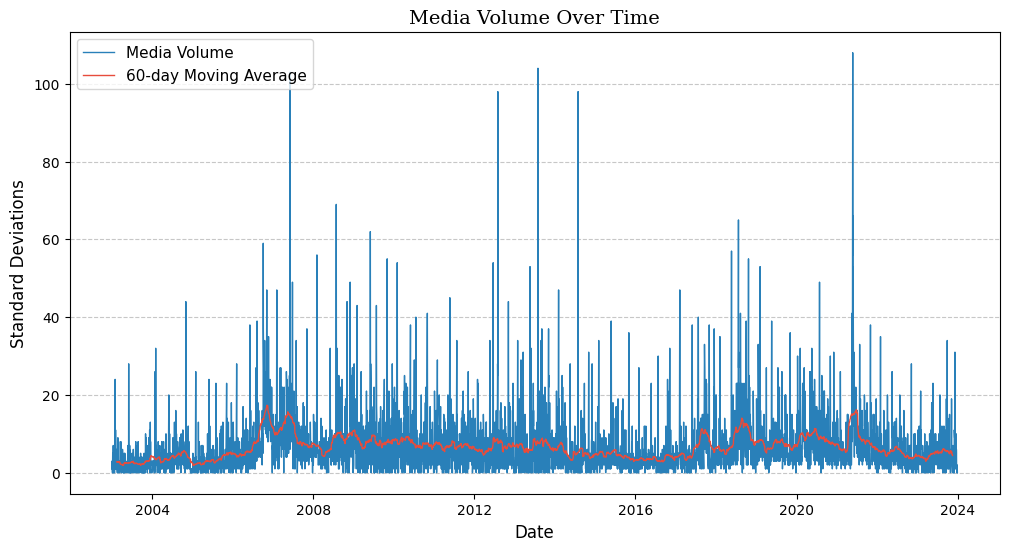
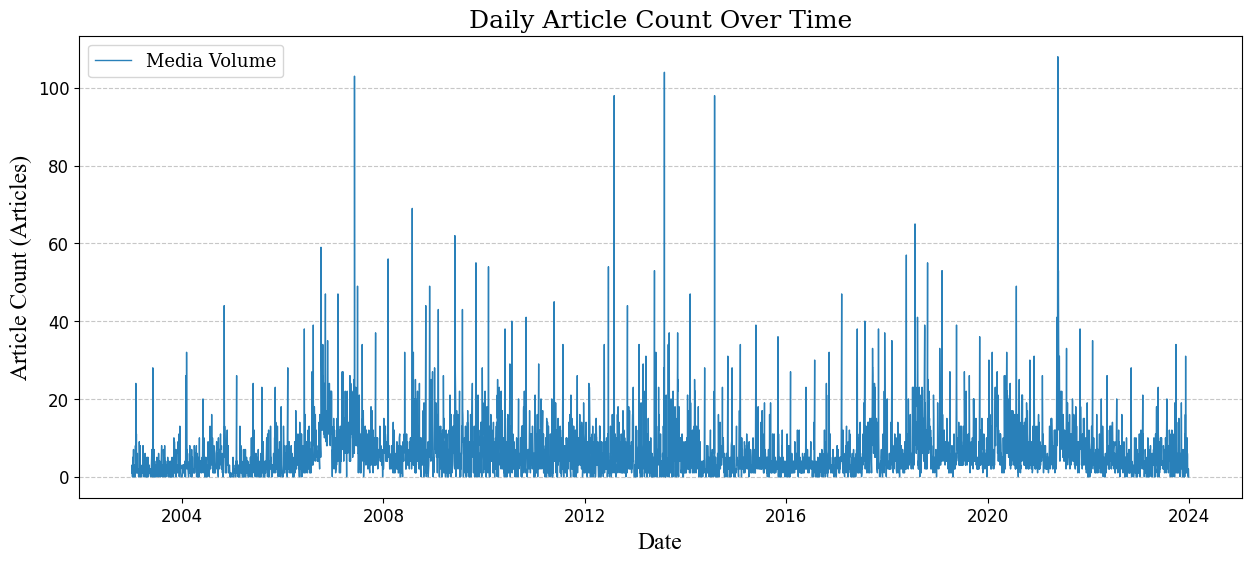
change plot article counts

diff --git a/Plot_Trading_days_data.py b/Plot_Trading_days_data.py
@@ -1,6 +1,7 @@
 import matplotlib.pyplot as plt
 import matplotlib.dates as mdates
 from datetime import datetime
+from collections import defaultdict
 import statistics
 import pandas as pd
 import numpy as np
@@ -23,7 +24,7 @@ def convert_to_zscore(returns):
         
     return z_score_returns
 
-trading_days_file_name = 'XX_daily_data.csv'
+trading_days_file_name = 'Aggregated_Time_Series.csv'
 trading_days_data = get_trading_days_data(trading_days_file_name)
 print(trading_days_data.head())
 
@@ -65,21 +66,35 @@ plt.tick_params(axis='both', which='major', labelsize=10)
 #plt.show()
 
 # Plot data
-plt.figure(figsize=(12, 6))
+plt.figure(figsize=(15, 6))
 # Calculate 60-period moving average
-ma_window = 60
+ma_window = 30
 moving_average_sentiment = np.convolve(list(trading_days_data['Media_Volume']), np.ones(ma_window)/ma_window, mode='valid')
 plt.plot(datetime_objs, trading_days_data['Media_Volume'], label='Media Volume', color='#2980b9', linewidth=1)
-plt.plot(datetime_objs[ma_window//2:-ma_window//2], moving_average_sentiment[1:], label='60-day Moving Average', color='#e74c3c', linewidth=1)
-plt.title('Media Volume Over Time', fontsize=14, fontfamily='serif')
+#plt.plot(datetime_objs[ma_window//2:-ma_window//2], moving_average_sentiment[1:], label='60-day Moving Average', color='#e74c3c', linewidth=1)
+plt.title('Daily Article Count Over Time', fontsize=18, fontfamily='serif')
 plt.gca().xaxis.set_major_formatter(mdates.DateFormatter('%Y'))
-plt.legend(loc='upper left', prop={'family': 'serif', 'size': 11})
-plt.xlabel('Date', fontsize=13, fontname='Times New Roman')
-plt.ylabel('Article Count (Articles)', fontsize=13, fontname='Times New Roman')
+plt.legend(loc='upper left', prop={'family': 'serif', 'size': 13})
+plt.xlabel('Date', fontsize=17, fontname='Times New Roman')
+plt.ylabel('Article Count (Articles)', fontsize=17, fontname='Times New Roman')
 plt.grid(axis='y', linestyle='--', alpha=0.7)
-plt.tick_params(axis='both', which='major', labelsize=10)
+plt.tick_params(axis='both', which='major', labelsize=12)
 #plt.savefig('Plots/Media_Volume_Over_Time.png', bbox_inches='tight')
 #plt.show()
+
+######################################
+# Get yearly article count breakdown
+yearly_counts = defaultdict(int)
+
+# Aggregate the counts for each year
+for date, count in zip(dates, list(trading_days_data['Media_Volume'])):
+    year = date.year
+    yearly_counts[year] += count
+
+# Print the total counts for each year
+for year, total_count in yearly_counts.items():
+    print(f"Year {year}: {total_count}")
+######################################
 
 plt.figure(figsize=(12, 6))
 plt.plot(datetime_objs, list(trading_days_data['Returns']), label='RYAAY Returns', color='#2980b9', linewidth=1)
@@ -103,5 +118,5 @@ plt.gca().xaxis.set_major_formatter(mdates.DateFormatter('%Y'))
 plt.legend(loc='upper left', prop={'family': 'serif', 'size': 17})
 plt.xlabel('Date', fontsize=15, fontname='Times New Roman')
 plt.ylabel('US Dollars', fontsize=15, fontname='Times New Roman')
-plt.savefig('Plots/Close_Over_Time_with_title.png', bbox_inches='tight')
+#plt.savefig('Plots/Close_Over_Time_with_title.png', bbox_inches='tight')
 #plt.show()
